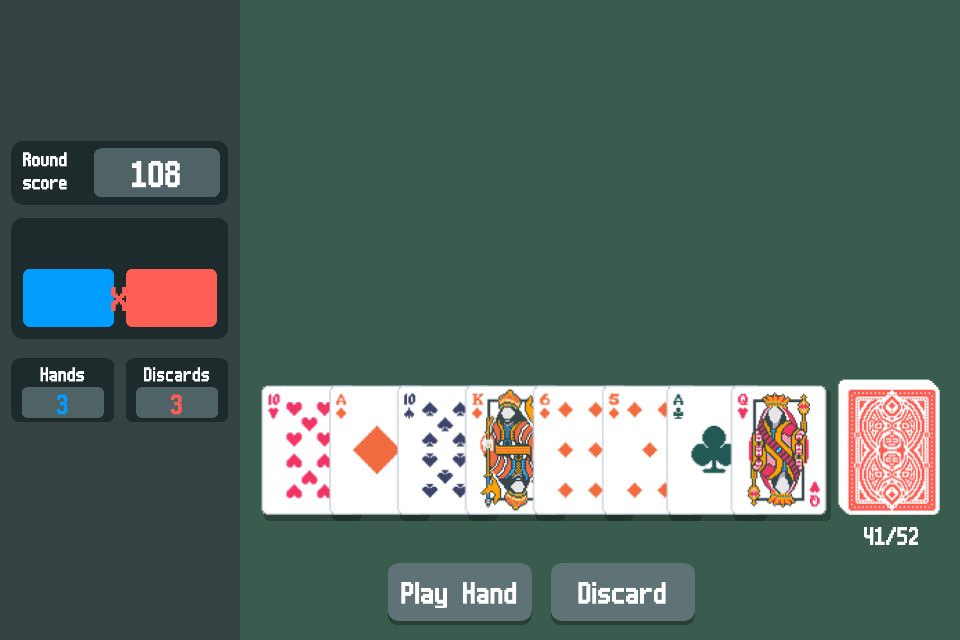
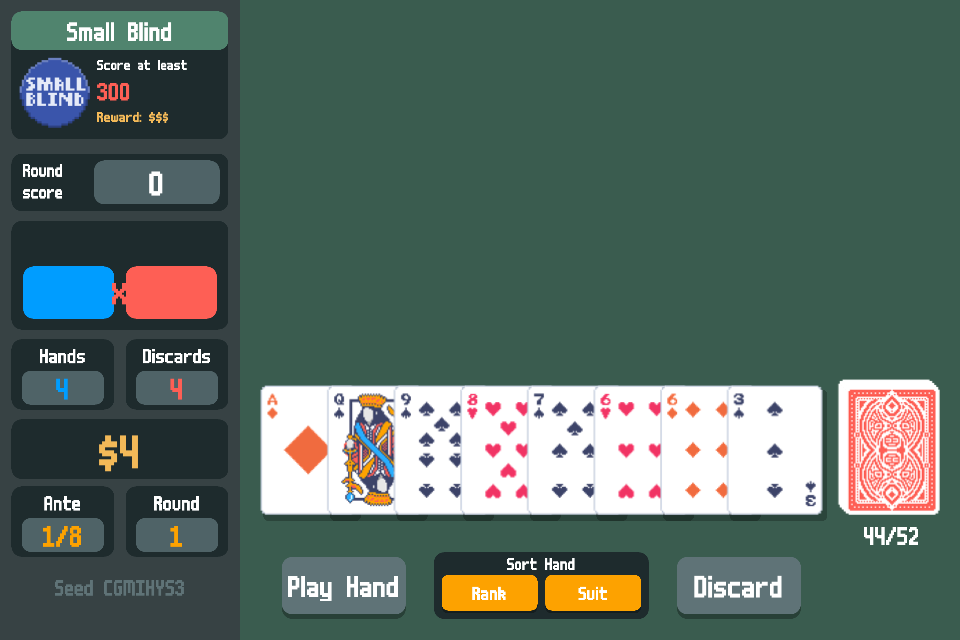
docs: show the blind select and a round in the README

diff --git a/README.md b/README.md
@@ -8,12 +8,13 @@ Objective-C, with OpenGL ES 2.0. You install it as a .deb package.
 
 This is a fan project. It is not from LocalThunk or Playstack.
 
-**The status:** early work. Version 0.1.0 deals a hand, finds the poker
-hand, and scores it. A full run is not playable yet. The plan is in
+**The status:** early work. Version 0.2.0 plays a full run of 8 antes with
+the standard deck, with the seeds of Balatro. The shop, the jokers, and the
+other cards come in the next versions. The plan is in
 [TODO.md](TODO.md), and the decisions and their reasons are in
 [docs/decisions.md](docs/decisions.md).
 
-<img src="assets/screenshots/table.png" width="480" alt="The table: the side panel with the round score, the hand, and the hands and discards that are left; eight cards in the hand; the deck; and the Play Hand and Discard buttons">
+<img src="assets/screenshots/blinds.png" width="400" alt="The blind select: the Small Blind is defeated, the Big Blind waits with a Select button, and the boss The Pillar is upcoming"> <img src="assets/screenshots/table.png" width="400" alt="A round: the blind and its target in the side panel, eight cards in the hand, the Play Hand and Discard buttons, and the sort buttons">
 
 ## You need a copy of Balatro
 
@@ -35,7 +36,7 @@ Balatro4S follows Balatro 1.0.1o.
 1. Download the .deb from the latest
    [release](https://github.com/Stiven-Gjekaj/Balatro4S/releases).
 2. Copy it to the phone, for example with `scp`.
-3. Install it as root: `dpkg -i io.github.stivengjekaj.balatro4s_0.1.0_iphoneos-arm.deb`.
+3. Install it as root: `dpkg -i io.github.stivengjekaj.balatro4s_0.2.0_iphoneos-arm.deb`.
 
 The APT of Cydia on iOS 6 speaks only TLS 1.0, and GitHub accepts only TLS
 1.2, so `dpkg -i` is the way on iOS 6.
